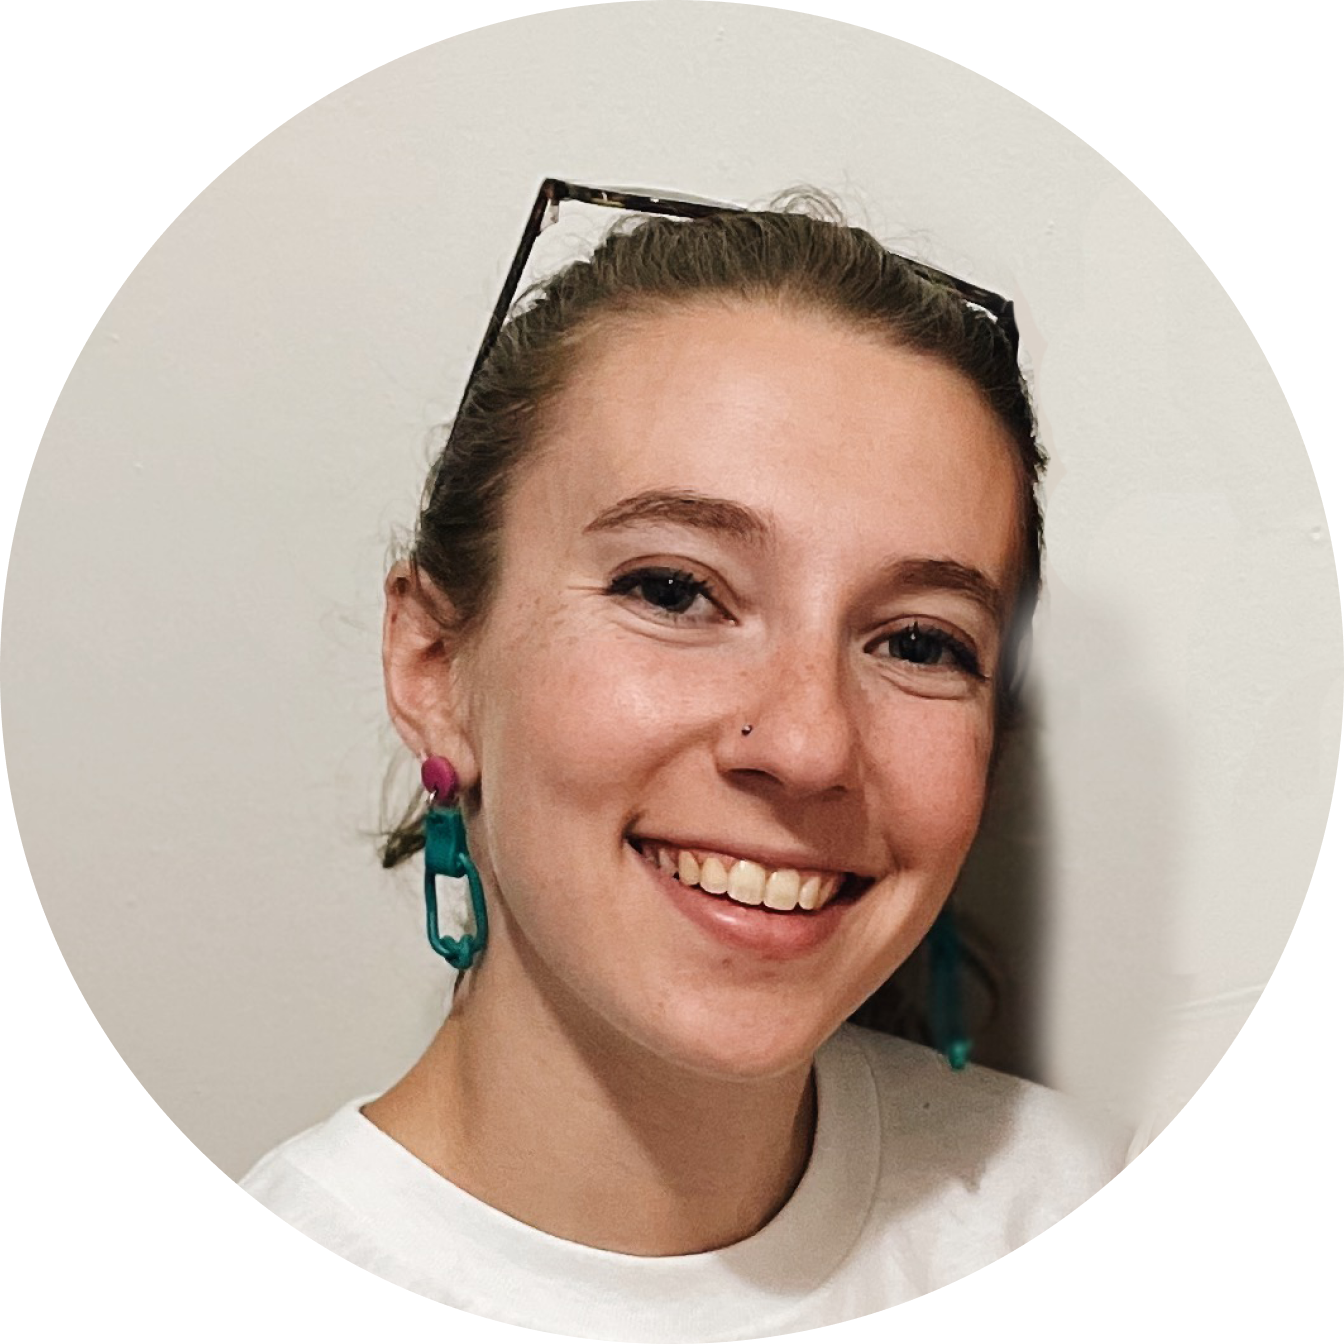
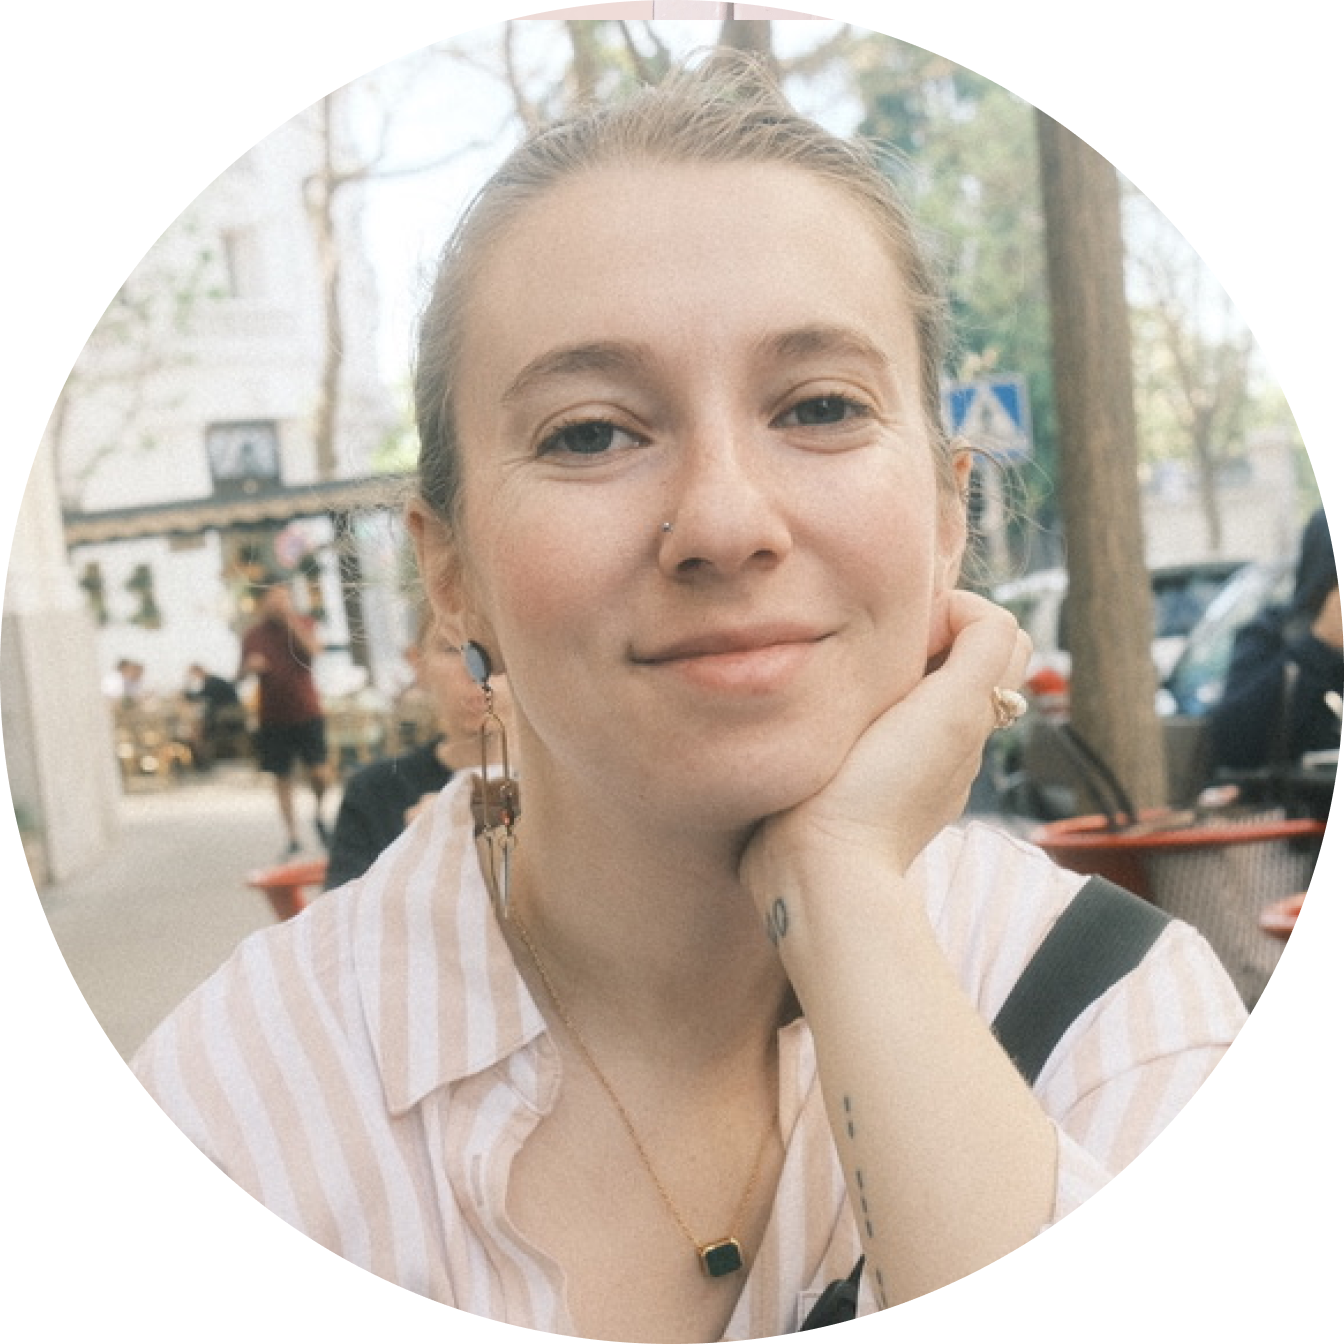
create admin tool

diff --git a/brenna-sorkin-portfolio/src/AdminTool.js b/brenna-sorkin-portfolio/src/AdminTool.js
@@ -2,42 +2,18 @@ import React from 'react';
 import './PortfolioProject.css'; // Different CSS for project pages
 import Portfolio from './Portfolio';
 
-const GiftingProgram = () => {
+const AdminTool = () => {
   return (
     <div>
-        {/* <div className="hero-section">
-             <img src="/gifting-program/hero.png" alt="Manager Close Out" />
-            <p className="overline">Built @ Drizly, 2022</p>
-            <h1>
-                Leading <span className="highlight">Drizly's Gifting Program.</span>
-            </h1>           
-        </div> */}
-
-        {/* <div className="container">
-                        <header className="hero">
-                          <div className="portfolio-pic">
-                          <img src="/gifting-program/hero.png" alt="Manager Close Out" />
-
-                          </div>
-                          <div className="intro">
-                            <p className="overline">If you only read this...</p>
-                            <h1>
-                            I led design on the initative to redo the end to end gifting experience at Drizly. This included the sender discovery and purchase execution 
-        all the way through the recipient receiving the gift. I coordinated with 4 consumer engineering squads, retailer operations, brand & marketing, 
-        and leadership to achieve overwhelmingly successful program enhancements.
-                            </h1>
-                            
-                          </div>
-                        </header>
-                      </div> */}
+       
 <div class="hero-section-wrapper">
   <div class="hero-section">
-    <img src="/gifting-program/hero.png" alt="Gifting Program" />
+    <img src="/admin-tool/hero.png" alt="Gifting Program" />
     <header>
       <div class="intro">
         <p class="overline">If you only read this...</p>
         <h1>
-          I overhauled <span class="highlight">Drizly's Gifting Program.</span>
+          I created a tool <span class="highlight">to refine AI outputs</span>
         </h1>
         <p>
           I led the initiative to redo the end-to-end gifting experience at Drizly, including sender discovery and
@@ -327,4 +303,4 @@ We conducted a number of user research studies to examine the sender & recipient
   );
 };
 
-export default GiftingProgram;
+export default AdminTool;

diff --git a/brenna-sorkin-portfolio/src/Portfolio.js b/brenna-sorkin-portfolio/src/Portfolio.js
@@ -13,16 +13,16 @@ const Portfolio = ({ exclude }) => {
     {
       title: 'Gifting Program',
       subtitle: 'Product Design @ Drizly',
-      description: "Led design on Drizly's gifting program across the entire funnel.",
+      description: "Led design on Drizly's gifting program ($2 million impact).",
       image: '/gifting.png',
       link: '/gifting-program',
     },
     {
-      title: 'Streamlined Checkout',
-      subtitle: 'Product Design @ Drizly',
-      description: 'Designed web flow for checkout at Drizly, resulting in a $2 million impact.',
-      image: '/streamlined-checkout.png',
-      link: '/streamlined-checkout',
+      title: 'AI Admin Tool',
+      subtitle: 'Product Design @ Toast',
+      description: 'Designed a tool to allow finetuning of AI agents by non-engineers.',
+      image: '/admin-tool.png',
+      link: '/admin-tool',
     },
   ];
 

diff --git a/brenna-sorkin-portfolio/src/App.js b/brenna-sorkin-portfolio/src/App.js
@@ -5,6 +5,7 @@ import Navbar from './Navbar';
 import Portfolio from './Portfolio';
 import ManagerCloseOut from './ManagerCloseOut'; // Import individual project pages
 import GiftingProgram from './GiftingProgram'; // Import individual project pages
+import AdminTool from './AdminTool'; // Import individual project pages
 
 import { FontAwesomeIcon } from '@fortawesome/react-fontawesome';
 import { faEnvelope, faPhone } from '@fortawesome/free-solid-svg-icons';
@@ -68,6 +69,7 @@ const App = () => {
         />
         <Route path="/manager-close-out" element={<ManagerCloseOut />} />
         <Route path="/gifting-program" element={<GiftingProgram />} />
+        <Route path="/admin-tool" element={<AdminTool />} />
       </Routes>
     </Router>
   );
